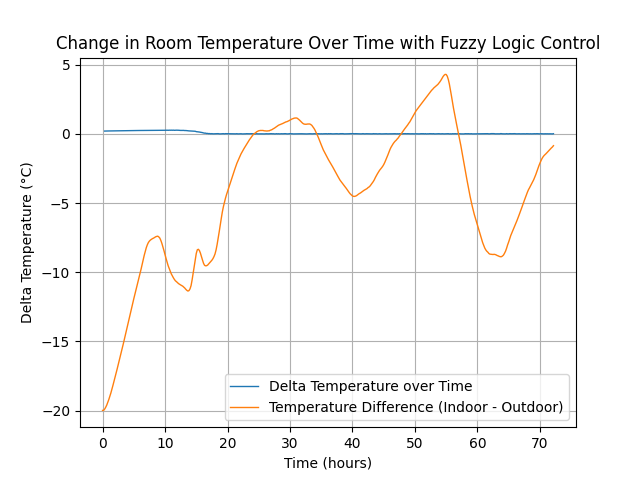
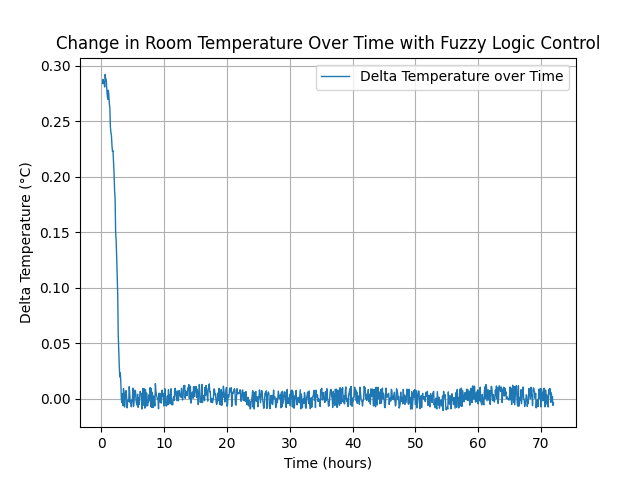
shifted data change graph working

diff --git a/firstRun.py b/firstRun.py
@@ -21,8 +21,8 @@ cur_time = start
 
 outdoor_temps = [16.3]
 
-initial_temp = -20 + splines['temperature'](0) * random.uniform(0.9, 1.1)  # %10 variation in initial temperature
-initial_hum = 15 + splines['humidity'](0) * random.uniform(0.9, 1.1)  # %10 variation in initial humidity
+initial_temp = -5 + splines['temperature'](0) * random.uniform(0.9, 1.1)  # %10 variation in initial temperature
+initial_hum = 5 + splines['humidity'](0) * random.uniform(0.9, 1.1)  # %10 variation in initial humidity
 initial_delta_temp = 0  # Initial change in temperature
 #initial_delta_hum = -5  # Initial change in humidity
 
@@ -37,6 +37,9 @@ delta_temps = [initial_delta_temp]
 #delta_hums = [initial_delta_hum]
 times = [0]
 #336 hours = 14 days
+
+ac_control_data = []
+hum_control_data = []
 
 max_time = int(input("Enter the total number of hours to simulate: "))
 
@@ -57,16 +60,18 @@ while cur_time < max_time:
     humidifier_power = simulator.output['humidifier_dehumidifier_power']
 
     new_data = calc_new_temp_and_hum(cur_temp, cur_hum, heating_power, humidifier_power, cur_time, seconds, splines, max_ac_power, wall_heat_loss_factor)
-    new_temp = new_data['temperature']
-    new_hum = new_data['humidity']
+    new_temp = new_data["outputs"]['temperature']
+    new_hum = new_data["outputs"]['humidity']
+    ac_control_data.append(new_data['ac_heater_control'])
+    hum_control_data.append(new_data['humidifier_control'])
 
-    print(f"Time: {cur_time:.6f} hrs, Temp: {cur_temp:.6f} C, Humidity: {cur_hum:.6f} %, Delta Temp: {cur_delta_temp:.6f} C, Heating Power: {heating_power:.6f} % -> New Temp: {new_temp:.6f} C, New Humidity: {new_hum:.6f} %, Outdoor Temp: {new_data['outdoor_temperature']:.6f} C")
+    print(f"Time: {cur_time:.6f} hrs, Temp: {cur_temp:.6f} C, Humidity: {cur_hum:.6f} %, Delta Temp: {cur_delta_temp:.6f} C, Heating Power: {heating_power:.6f} % -> New Temp: {new_temp:.6f} C, New Humidity: {new_hum:.6f} %, Outdoor Temp: {splines['temperature'](cur_time):.6f} C")
 
     # Store the results
     temps.append(cur_temp)
     hums.append(cur_hum)
     delta_temps.append(cur_delta_temp)
-    outdoor_temps.append(new_data['outdoor_temperature'])
+    outdoor_temps.append(splines['temperature'](cur_time))
 
     cur_delta_temp = new_temp - cur_temp
     #cur_delta_hum = new_hum - cur_hum
@@ -99,12 +104,41 @@ plt.clf()
 
 
 plt.plot(times[2:], delta_temps[2:], label='Delta Temperature over Time', lw = 1)
-plt.plot(times, np.array(temps) - np.array(outdoor_temps), label='Temperature Difference (Indoor - Outdoor)', lw = 1)
+#plt.plot(times, np.array(temps) - np.array(outdoor_temps), label='Temperature Difference (Indoor - Outdoor)', lw = 1)
 plt.xlabel('Time (hours)')
 plt.ylabel('Delta Temperature (°C)')
 plt.title('Change in Room Temperature Over Time with Fuzzy Logic Control')
 plt.grid()
 plt.legend()
 plt.savefig('results/delta_temperature_over_time.png')
-#print( list( map( float, temps) ) )
-print(delta_temps)
+plt.clf()
+
+plt.plot(times[1:], ac_control_data, label='AC/Heater Control Signal', lw = 1)
+plt.xlabel('Time (hours)')
+plt.ylabel('AC/Heater Control (%)')
+plt.title('AC/Heater Control Signal Over Time')
+plt.grid()
+plt.legend()
+plt.savefig('results/ac_heater_control_over_time.png')
+plt.clf()
+
+plt.plot(times[1:], hum_control_data, label='Humidifier/Dehumidifier Control Signal', lw = 1)
+plt.xlabel('Time (hours)')
+plt.ylabel('Humidifier/Dehumidifier Control (%)')
+plt.title('Humidifier/Dehumidifier Control Signal Over Time')
+plt.grid()
+plt.legend()
+plt.savefig('results/humidifier_dehumidifier_control_over_time.png')
+plt.clf()
+
+time_to_begin = float(input("Enter the time in hours of when the delta temperature graph should begin: "))
+keeper_help = np.array(times[2:]) >= time_to_begin
+delta_temps_shifted = np.array(delta_temps)[2:][keeper_help]
+times_shifted = np.array(times)[2:][keeper_help]
+plt.plot(times_shifted, delta_temps_shifted, label='Delta Temperature over Time', lw = 1)
+plt.xlabel('Time (hours)')
+plt.ylabel('Delta Temperature (°C)')
+plt.title('Change in Room Temperature Over Time with Fuzzy Logic Control (Shifted)')
+plt.grid()
+plt.legend()
+plt.savefig('results/delta_temperature_over_time_shifted.png')

diff --git a/environment_simulator.py b/environment_simulator.py
@@ -1,18 +1,5 @@
-from math import exp
 import random
-# Square floor 20 meters, 3 meters tall
-room_volume = 20 * 20 * 3 # in cubic meters
 
-air_density = 1.225 # kg/m^3 at sea level
-
-air_mass = room_volume * air_density
-
-def calc_satured_vapor_pressure(temp_c):
-    if temp_c >= 0:
-        return 6.112 * exp((17.67 * temp_c) / (temp_c + 243.5))  # in hPa
-    else:
-        return 6.112 * exp((22.46 * temp_c) / (temp_c + 272.62))  # in hPa
-    
 def specific_heat_by_humidity(humidity):
     cp_dry_air = 1005  # J/(kg·K)
     cp_water_vapor = 1860  # J/(kg·K)
@@ -21,13 +8,14 @@ def specific_heat_by_humidity(humidity):
     specific_heat = cp_dry_air + (humidity / 100.0) * cp_water_vapor
     return specific_heat  # in J/(kg·K)
 
-def celsius_to_kelvin(temp_c):
-    return temp_c + 273.15
-
-def kelvin_to_celsius(temp_k):
-    return temp_k - 273.15
-
 def calc_new_temp_and_hum(temp, humidity, ac_heater_control, humidifier_control, hour, step_seconds, splines, ac_heater_max_power=1000, wall_heat_loss_factor=1):
+
+    # Square floor 10 meters, 3 meters tall
+    room_volume = 10 * 10 * 3 # in cubic meters
+
+    air_density = 1.225 # kg/m^3 at sea level
+
+    air_mass = room_volume * air_density
 
     # Fix: Make humidifier_max_change per hour, not per second
     humidifier_max_change = 5.0  # 5% per hour (reasonable rate)
@@ -39,8 +27,8 @@ def calc_new_temp_and_hum(temp, humidity, ac_heater_control, humidifier_control,
     sum_power = ac_heater_power
 
     thermal_conductivity = 0.002  # W/(m·K) Concrete
-    wall_area = 20 * 3 * 4  # m^2 (4 walls, 3m tall, 20m wide)
-    wall_thickness = 0.3 # m
+    wall_area = 10 * 3 * 4  # m^2 (4 walls, 3m tall, 10m wide)
+    wall_thickness = 0.2 # m
     outdoor_temp = splines["temperature"](hour)  # in Celsius
     temp_difference = temp - outdoor_temp # in Celsius
 
@@ -54,13 +42,9 @@ def calc_new_temp_and_hum(temp, humidity, ac_heater_control, humidifier_control,
     step_hours = step_seconds / 3600  # Convert seconds to hours
     humidity_change = (humidifier_control / 100) * humidifier_max_change * step_hours
     humidity_change += (humidity - splines["humidity"](hour)) * 0.01 * step_hours
-    print('humidity', humidity, 'humidifier_control', humidifier_control, 'humidity_change', humidity_change, 'step_seconds', step_seconds, 'humidifier_max_change', humidifier_max_change)
+    #print('humidity', humidity, 'humidifier_control', humidifier_control, 'humidity_change', humidity_change, 'step_seconds', step_seconds, 'humidifier_max_change', humidifier_max_change)
     env_outputs = {"temperature": temp + temp_change, "humidity": humidity + humidity_change, "outdoor_temperature": outdoor_temp}
+    percent_noise = 0.05 / 100  # 0.05% noise
     for key in env_outputs:
-       env_outputs[key] *= random.uniform(0.9995, 1.0005)  # Add some noise
-    return env_outputs
-#print(f"Step hours: {step_hours}")
-#for i in range(24*14):
-#    env_temp = temp_by_hour(i * step_hours)
-#    env_hum = humidity_by_hour(i * step_hours)
-#    print(f"Hour {i*step_hours:.2f}: Temp {env_temp:.2f} C, Humidity {env_hum:.2f}%")
+       env_outputs[key] *= random.uniform(1 - percent_noise, 1 + percent_noise)  # Add some noise
+    return {'outputs':env_outputs, 'ac_heater_control': ac_heater_control, 'humidifier_control': humidifier_control}

diff --git a/json_parser.py b/json_parser.py
@@ -19,11 +19,7 @@ def json_to_splines():
         for hour in day['hour']:
             temps.append(hour['temp_c'])
             humidities.append(hour['humidity'])
-
-    #Convert to numpy arrays
-    #temps = np.array(temps) * np.random.uniform( 1 - percent_noise / 100, 1 + percent_noise / 100, size=len(temps))
-    #humidities = np.array(humidities) * np.random.uniform(1 - percent_noise / 100, 1 + percent_noise / 100, size=len(humidities))
-
+            
     #Cubic Spline Interpolation
     x = np.arange(0, 24*14, 1)
     return { "temperature": CubicSpline(x, temps), "humidity": CubicSpline(x, humidities) }
